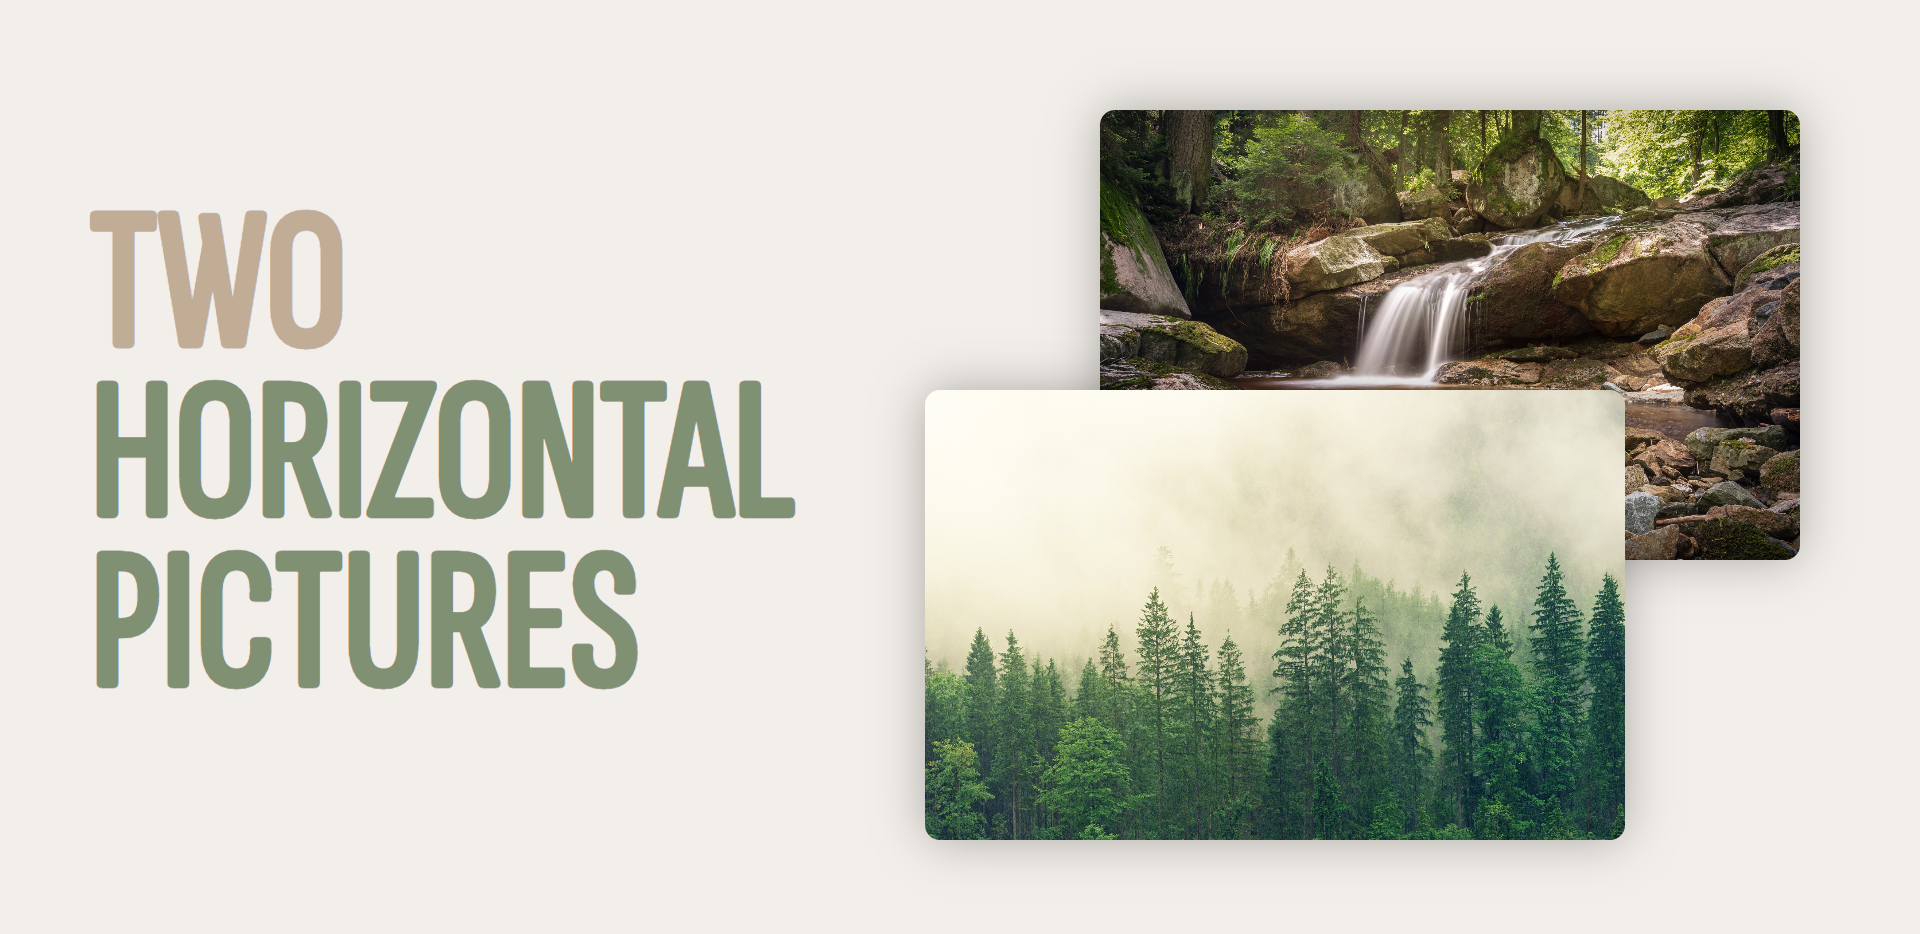
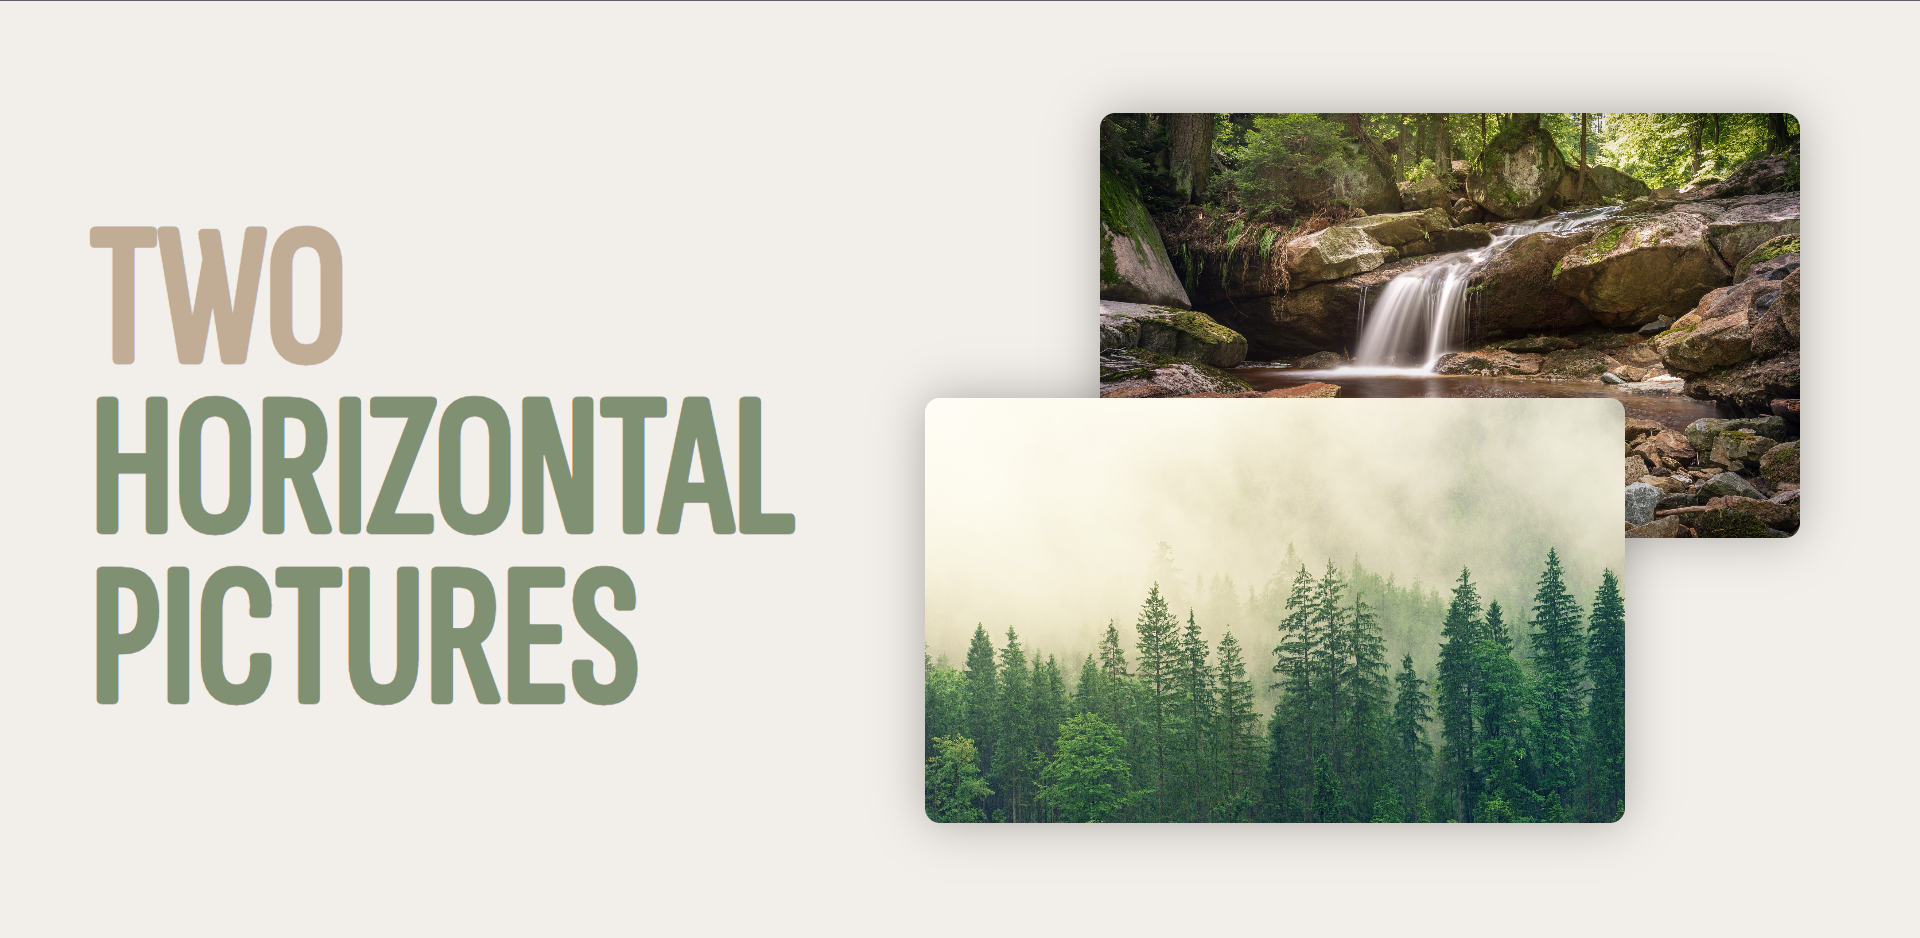
Update layout 7

diff --git a/src/layout7.html b/src/layout7.html
@@ -28,8 +28,8 @@
                 <div class="first">Two</div> horizontal pictures
             </div>
             <div class="pictures">
-                <img class="picture1" src="../assets/pictures/horizontal_picture.png" alt="picture1">
-                <img class="picture2" src="../assets/pictures/horizontal_picture.png" alt="picture2">
+                <img class="picture1" src="../assets/pictures/horizontal_orientation/forest.jpg" alt="picture1">
+                <img class="picture2" src="../assets/pictures/horizontal_orientation/river.jpg" alt="picture2">
             </div>
         </div>
     </body>

diff --git a/assets/stylesheets/layout7.css b/assets/stylesheets/layout7.css
@@ -52,16 +52,17 @@ body {
         font-size: 200px;
         line-height: 170px;
         padding-left: 70px;
+        padding-top: 25px;
     }
 
     .picture1,
     .picture2 {
-        height: 450px;
+        height: 425px;
         width: 700px;
     }
 
     .picture1 {
-        top: 415px;
+        top: 420px;
         left: 925px;
     }
     
